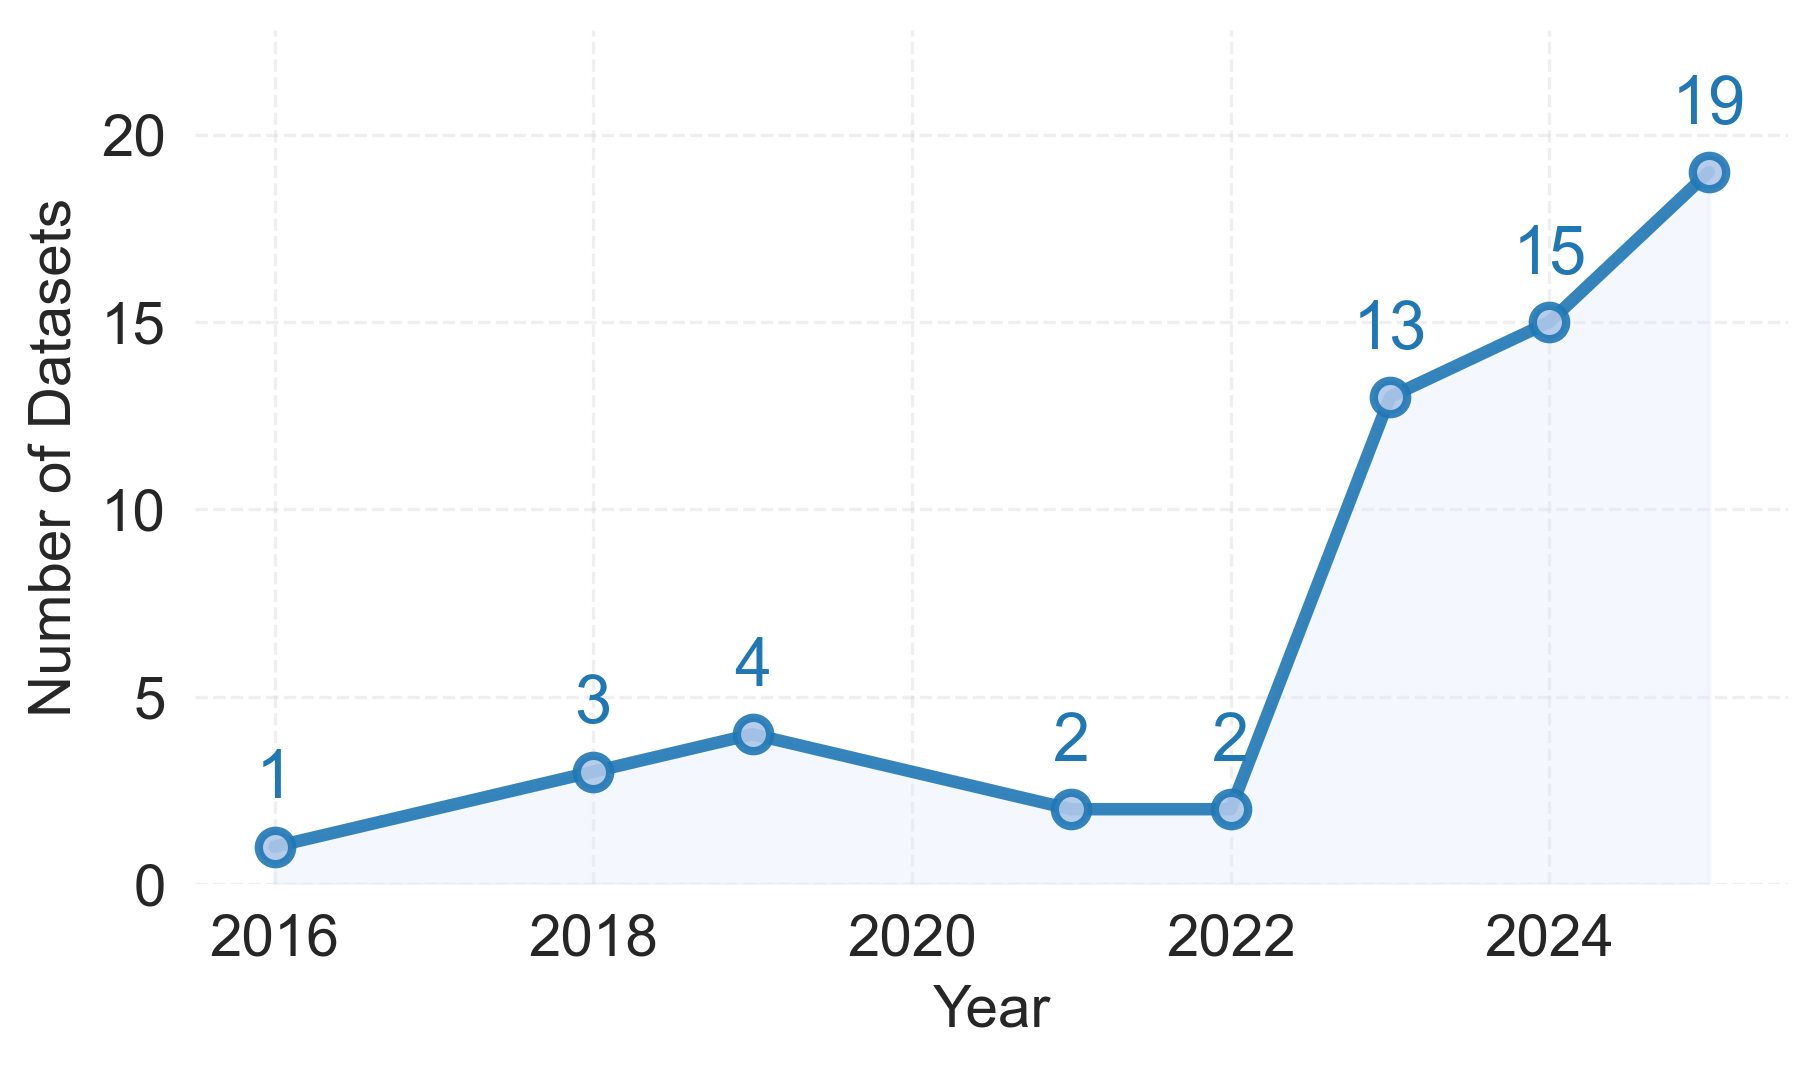
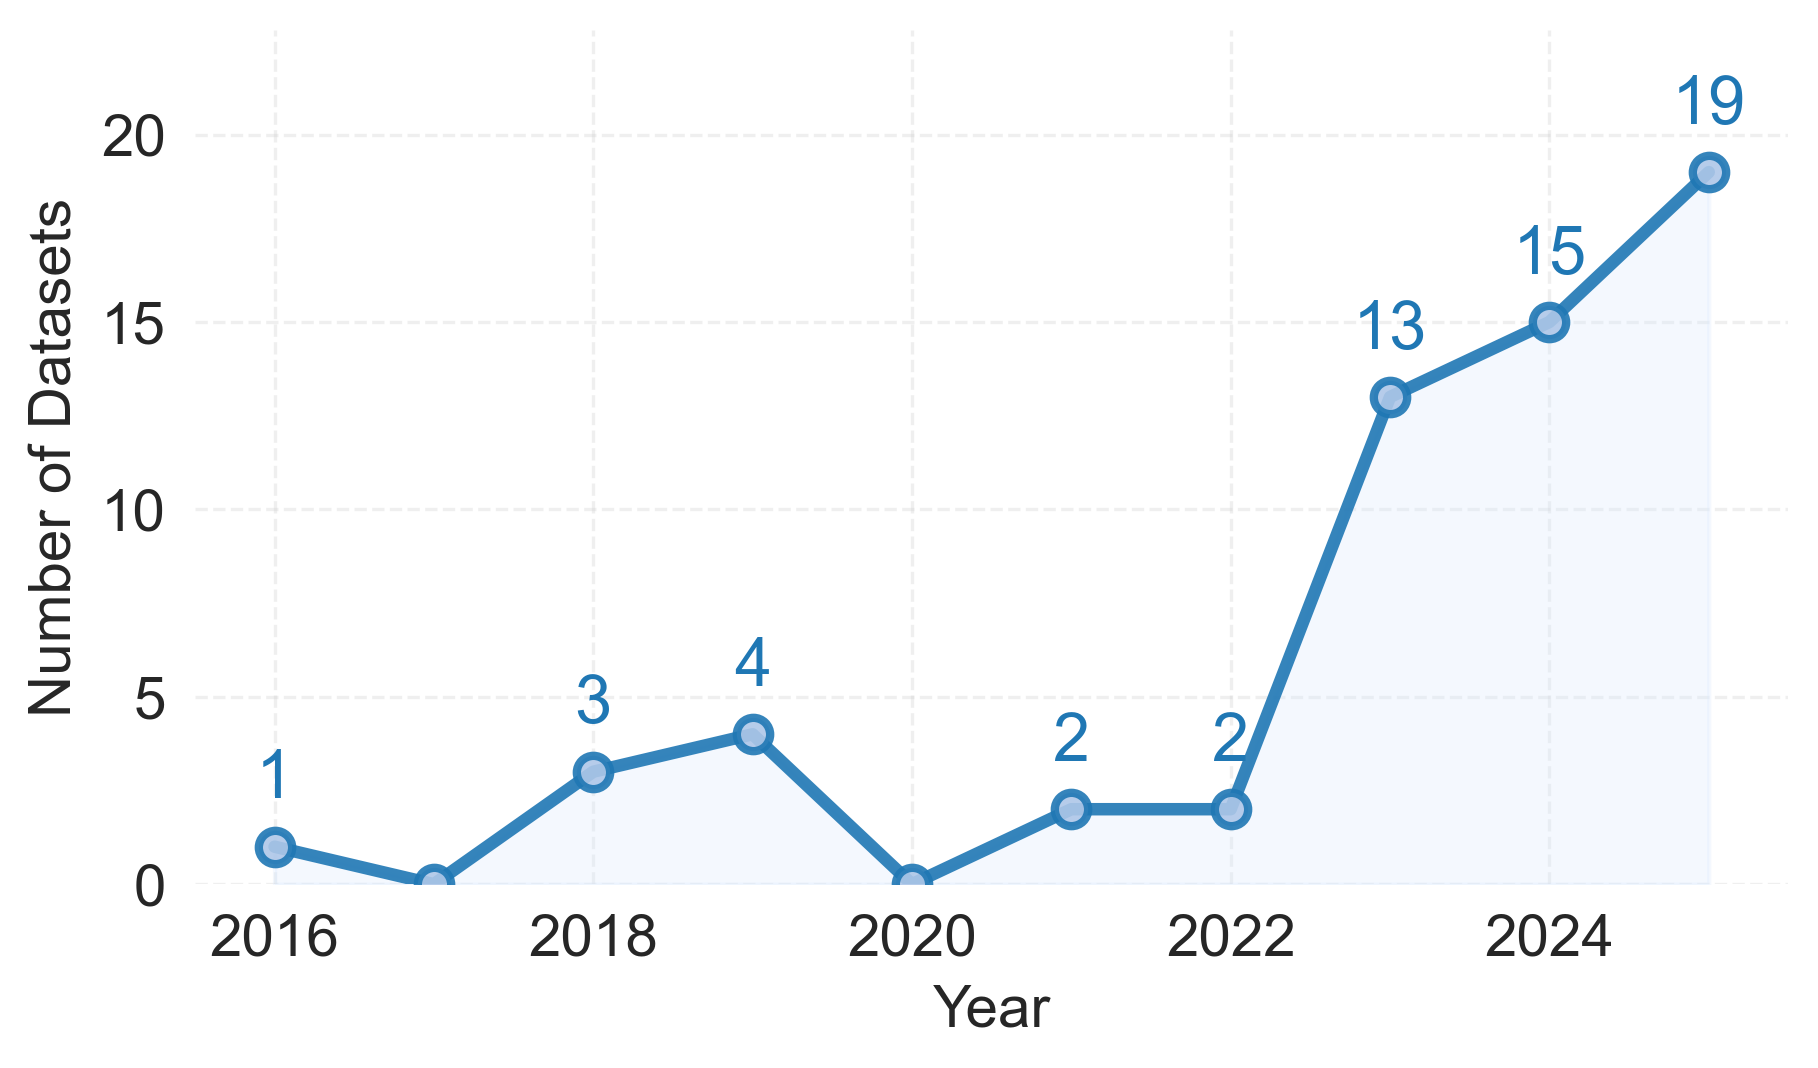
fix plot

Changed region(s): [[0.154, 0.7107, 0.3388, 0.8343], [0.4004, 0.6798, 0.5545, 0.7725], [0.462, 0.7416, 0.5853, 0.8343]]

diff --git a/script/plot.py b/script/plot.py
@@ -13,7 +13,7 @@ sns.set_palette("husl")
 # Configuration parameters
 PROPERTIES = [
     'License', 'Artifact type', 'Granularity', 'RE stage', 
-    'Task', 'Domain',  'Size', 'Languages'  # Added 'Size'
+    'Task', 'Domain',  'Size', 'Languages'
 ]
 
 # SPDX license mapping for cleaner display
@@ -146,7 +146,7 @@ def map_license_to_spdx(license_value):
     
     return str(license_value)
 
-def aggregate_low_frequency_values(values, threshold=1):  # Changed from 3 to 2
+def aggregate_low_frequency_values(values, threshold=1):
     """Aggregate values with frequency below threshold into 'Others'"""
     counter = Counter(values)
     high_freq = {k: v for k, v in counter.items() if v >= threshold}
@@ -162,7 +162,7 @@ def create_stacked_distribution_plot(df, properties, output_file='dataset_distri
     """Create a single stacked horizontal bar chart"""
     
     # Set up the figure with reduced height
-    fig, ax = plt.subplots(figsize=(12, 6))  # Reduced from 8 to 6
+    fig, ax = plt.subplots(figsize=(12, 6))
     
     # Prepare data for each property
     property_data = {}
@@ -187,7 +187,7 @@ def create_stacked_distribution_plot(df, properties, output_file='dataset_distri
         values = values.apply(capitalize_label)
         
         # Aggregate low frequency values
-        value_counts = aggregate_low_frequency_values(values, threshold=1)  # Changed from 2 to 3
+        value_counts = aggregate_low_frequency_values(values, threshold=1)
         
         # Sort by frequency (descending), but put 'Undefined' last
         sorted_items = sorted(value_counts.items(), key=lambda x: x[1], reverse=True)
@@ -199,9 +199,6 @@ def create_stacked_distribution_plot(df, properties, output_file='dataset_distri
                 undefined_item = item
             else:
                 other_items.append(item)
-        
-        #if undefined_item:
-        #    sorted_items = other_items + [undefined_item]
         
         property_data[prop] = dict(sorted_items)
     
@@ -341,7 +338,7 @@ def create_stacked_distribution_plot(df, properties, output_file='dataset_distri
         values = values.replace(['', '-', 'nan'], 'Undefined')
         values = values.apply(capitalize_label)
         
-        value_counts = aggregate_low_frequency_values(values, threshold=1)  # Changed from 2 to 3
+        value_counts = aggregate_low_frequency_values(values, threshold=1)
         total = len(df)
         
         print(f"\n{prop}:")
@@ -354,7 +351,7 @@ def create_bubble_plot(df, output_file='re_stage_task_bubble.png'):
     """Create a bubble plot crossing RE stage and Task properties"""
     
     # Set up the figure with slightly more height to prevent bottom cropping
-    fig, ax = plt.subplots(figsize=(6, 3.5))  # Increased height from 3 to 3.5
+    fig, ax = plt.subplots(figsize=(6, 3.5))
     
     # Prepare data for RE stage and Task
     re_stage_values = df['RE stage'].fillna('Undefined').astype(str)
@@ -430,8 +427,8 @@ def create_bubble_plot(df, output_file='re_stage_task_bubble.png'):
         color = colormap(normalized_count)
         
         # Calculate bubble size (larger bubbles, less padding)
-        min_size = 200  # Increased from 50
-        max_size = 2000  # Increased from 800
+        min_size = 200
+        max_size = 2000
         size = min_size + (row['count'] - min_count) / (max_count - min_count) * (max_size - min_size) if max_count > min_count else (min_size + max_size) / 2
         
         # Draw the bubble
@@ -460,17 +457,17 @@ def create_bubble_plot(df, output_file='re_stage_task_bubble.png'):
     
     # Set up axes with more compact styling
     ax.set_xticks(range(len(tasks)))
-    ax.set_xticklabels(tasks, fontsize=10, fontweight='normal', rotation=30, ha='right')  # Changed from 8 to 10
+    ax.set_xticklabels(tasks, fontsize=10, fontweight='normal', rotation=30, ha='right')
     ax.set_yticks(range(len(re_stages)))
-    ax.set_yticklabels(re_stages, fontsize=10, fontweight='normal')  # Changed from 8 to 10
+    ax.set_yticklabels(re_stages, fontsize=10, fontweight='normal')
     
     # Remove axis labels completely
-    # ax.set_xlabel('Task', fontsize=12, fontweight='normal')  # Commented out
-    # ax.set_ylabel('RE Stage', fontsize=12, fontweight='normal')  # Commented out
+    # ax.set_xlabel('Task', fontsize=12, fontweight='normal')
+    # ax.set_ylabel('RE Stage', fontsize=12, fontweight='normal')
     
     # Set tick parameters to match bar plot
-    ax.tick_params(axis='x', labelsize=14)  # Changed from 12 to 14
-    ax.tick_params(axis='y', labelsize=14)  # Changed from 12 to 14
+    ax.tick_params(axis='x', labelsize=14)
+    ax.tick_params(axis='y', labelsize=14)
     
     # Remove spines (same as bar plot)
     ax.spines['top'].set_visible(False)
@@ -487,7 +484,7 @@ def create_bubble_plot(df, output_file='re_stage_task_bubble.png'):
     ax.set_ylim(-0.5, len(re_stages) - 0.5)
     
     # Adjust layout with tighter spacing
-    plt.tight_layout(pad=0.5)  # Reduced padding even more
+    plt.tight_layout(pad=0.5)
     
     # Save the plot
     plt.savefig('figures/' + output_file, dpi=300, bbox_inches='tight', 
@@ -527,9 +524,18 @@ def create_year_line_plot(df, output_file='year_dataset_line.png'):
     # Count datasets per year
     year_counts = valid_years.value_counts().sort_index()
     
+    # Create complete year range from min to max year
+    min_year = int(year_counts.index.min())
+    max_year = int(year_counts.index.max())
+    complete_years = range(min_year, max_year + 1)
+    
+    # Create a complete series with 0 values for missing years
+    complete_year_counts = pd.Series(index=complete_years, data=0)
+    complete_year_counts.update(year_counts)  # Update with actual counts
+    
     # Create the line plot
-    years = year_counts.index
-    counts = year_counts.values
+    years = complete_year_counts.index
+    counts = complete_year_counts.values
     
     # Use different blue-based colors from our palette
     line_color = '#1f77b4'  # Darker blue for the line
@@ -545,17 +551,19 @@ def create_year_line_plot(df, output_file='year_dataset_line.png'):
             markeredgewidth=2)
     
     # Add count labels on each point with better positioning to avoid overlap
+    # Only show labels for non-zero counts to avoid clutter
     for year, count in zip(years, counts):
-        ax.text(year, count + max(counts) * 0.05, str(count), ha='center', va='bottom', 
-               fontweight='normal', fontsize=16, color=line_color)  # Changed from 14 to 16
+        if count > 0:  # Only show labels for years with datasets
+            ax.text(year, count + max(counts) * 0.05, str(count), ha='center', va='bottom', 
+                   fontweight='normal', fontsize=16, color=line_color)
     
     # Set up axes with same styling as bubble plot
-    ax.set_xlabel('Year', fontsize=14, fontweight='normal')  # Changed from 12 to 14
-    ax.set_ylabel('Number of Datasets', fontsize=14, fontweight='normal')  # Changed from 12 to 14
+    ax.set_xlabel('Year', fontsize=14, fontweight='normal')
+    ax.set_ylabel('Number of Datasets', fontsize=14, fontweight='normal')
     
     # Set tick parameters to match bubble plot
-    ax.tick_params(axis='x', labelsize=14)  # Changed from 12 to 14
-    ax.tick_params(axis='y', labelsize=14)  # Changed from 12 to 14
+    ax.tick_params(axis='x', labelsize=14)
+    ax.tick_params(axis='y', labelsize=14)
     
     # Remove spines (same as bubble plot)
     ax.spines['top'].set_visible(False)
@@ -585,11 +593,11 @@ def create_year_line_plot(df, output_file='year_dataset_line.png'):
     print("="*60)
     print(f"Total datasets with valid years: {len(valid_years)}")
     print(f"Year range: {min(years)} - {max(years)}")
-    print("\Datasets per year:")
-    for year, count in year_counts.items():
+    print("Datasets per year:")
+    for year, count in complete_year_counts.items():
         print(f"  {year}: {count}")
     
-    return year_counts
+    return complete_year_counts
 
 def main():
     """Main function"""
